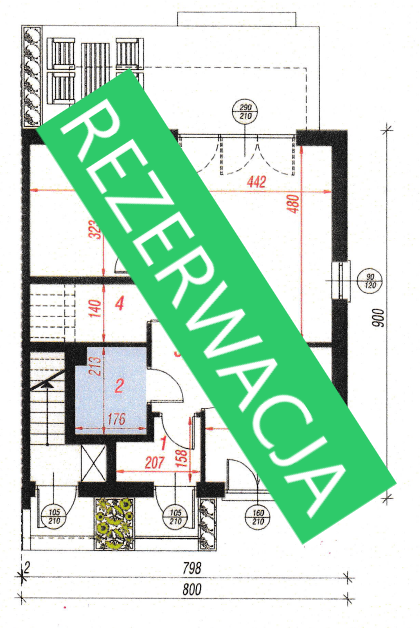
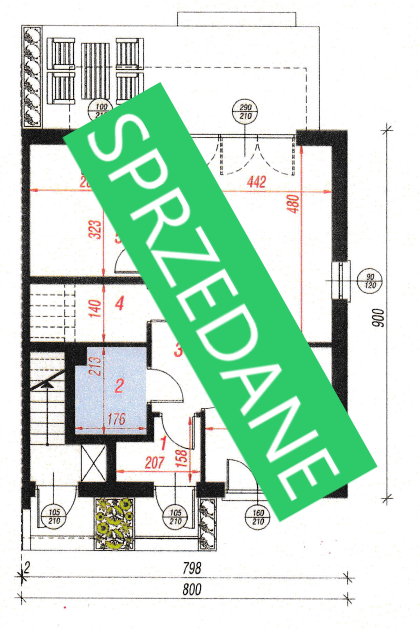
etap1 sprzedane

diff --git a/offer-grid.html b/offer-grid.html
@@ -130,11 +130,11 @@
                     <ul class="list">
                         <li class="d-flex justify-content-between">
                             <strong><a href="#mieszkanie-1">Mieszkanie 1:</a></strong>
-                            <span><a href="#mieszkanie-1">(rezerwacja) Parter, 55,5 m<sup>2</sup> + ogródek</a></span>
+                            <span><a href="#mieszkanie-1">(sprzedane) Parter, 55,5 m<sup>2</sup> + ogródek</a></span>
                         </li>
                         <li class="d-flex justify-content-between">
                             <strong><a href="#mieszkanie-2">Mieszkanie 2:</a></strong>
-                            <span><a href="#mieszkanie-2">(rezerwacja) Parter, 52 m<sup>2</sup> + ogródek</a></span>
+                            <span><a href="#mieszkanie-2">(sprzedane) Parter, 52 m<sup>2</sup> + ogródek</a></span>
                         </li>
                         <li class="d-flex justify-content-between">
                             <strong><a href="#mieszkanie-3">Mieszkanie 3:</a></strong>
